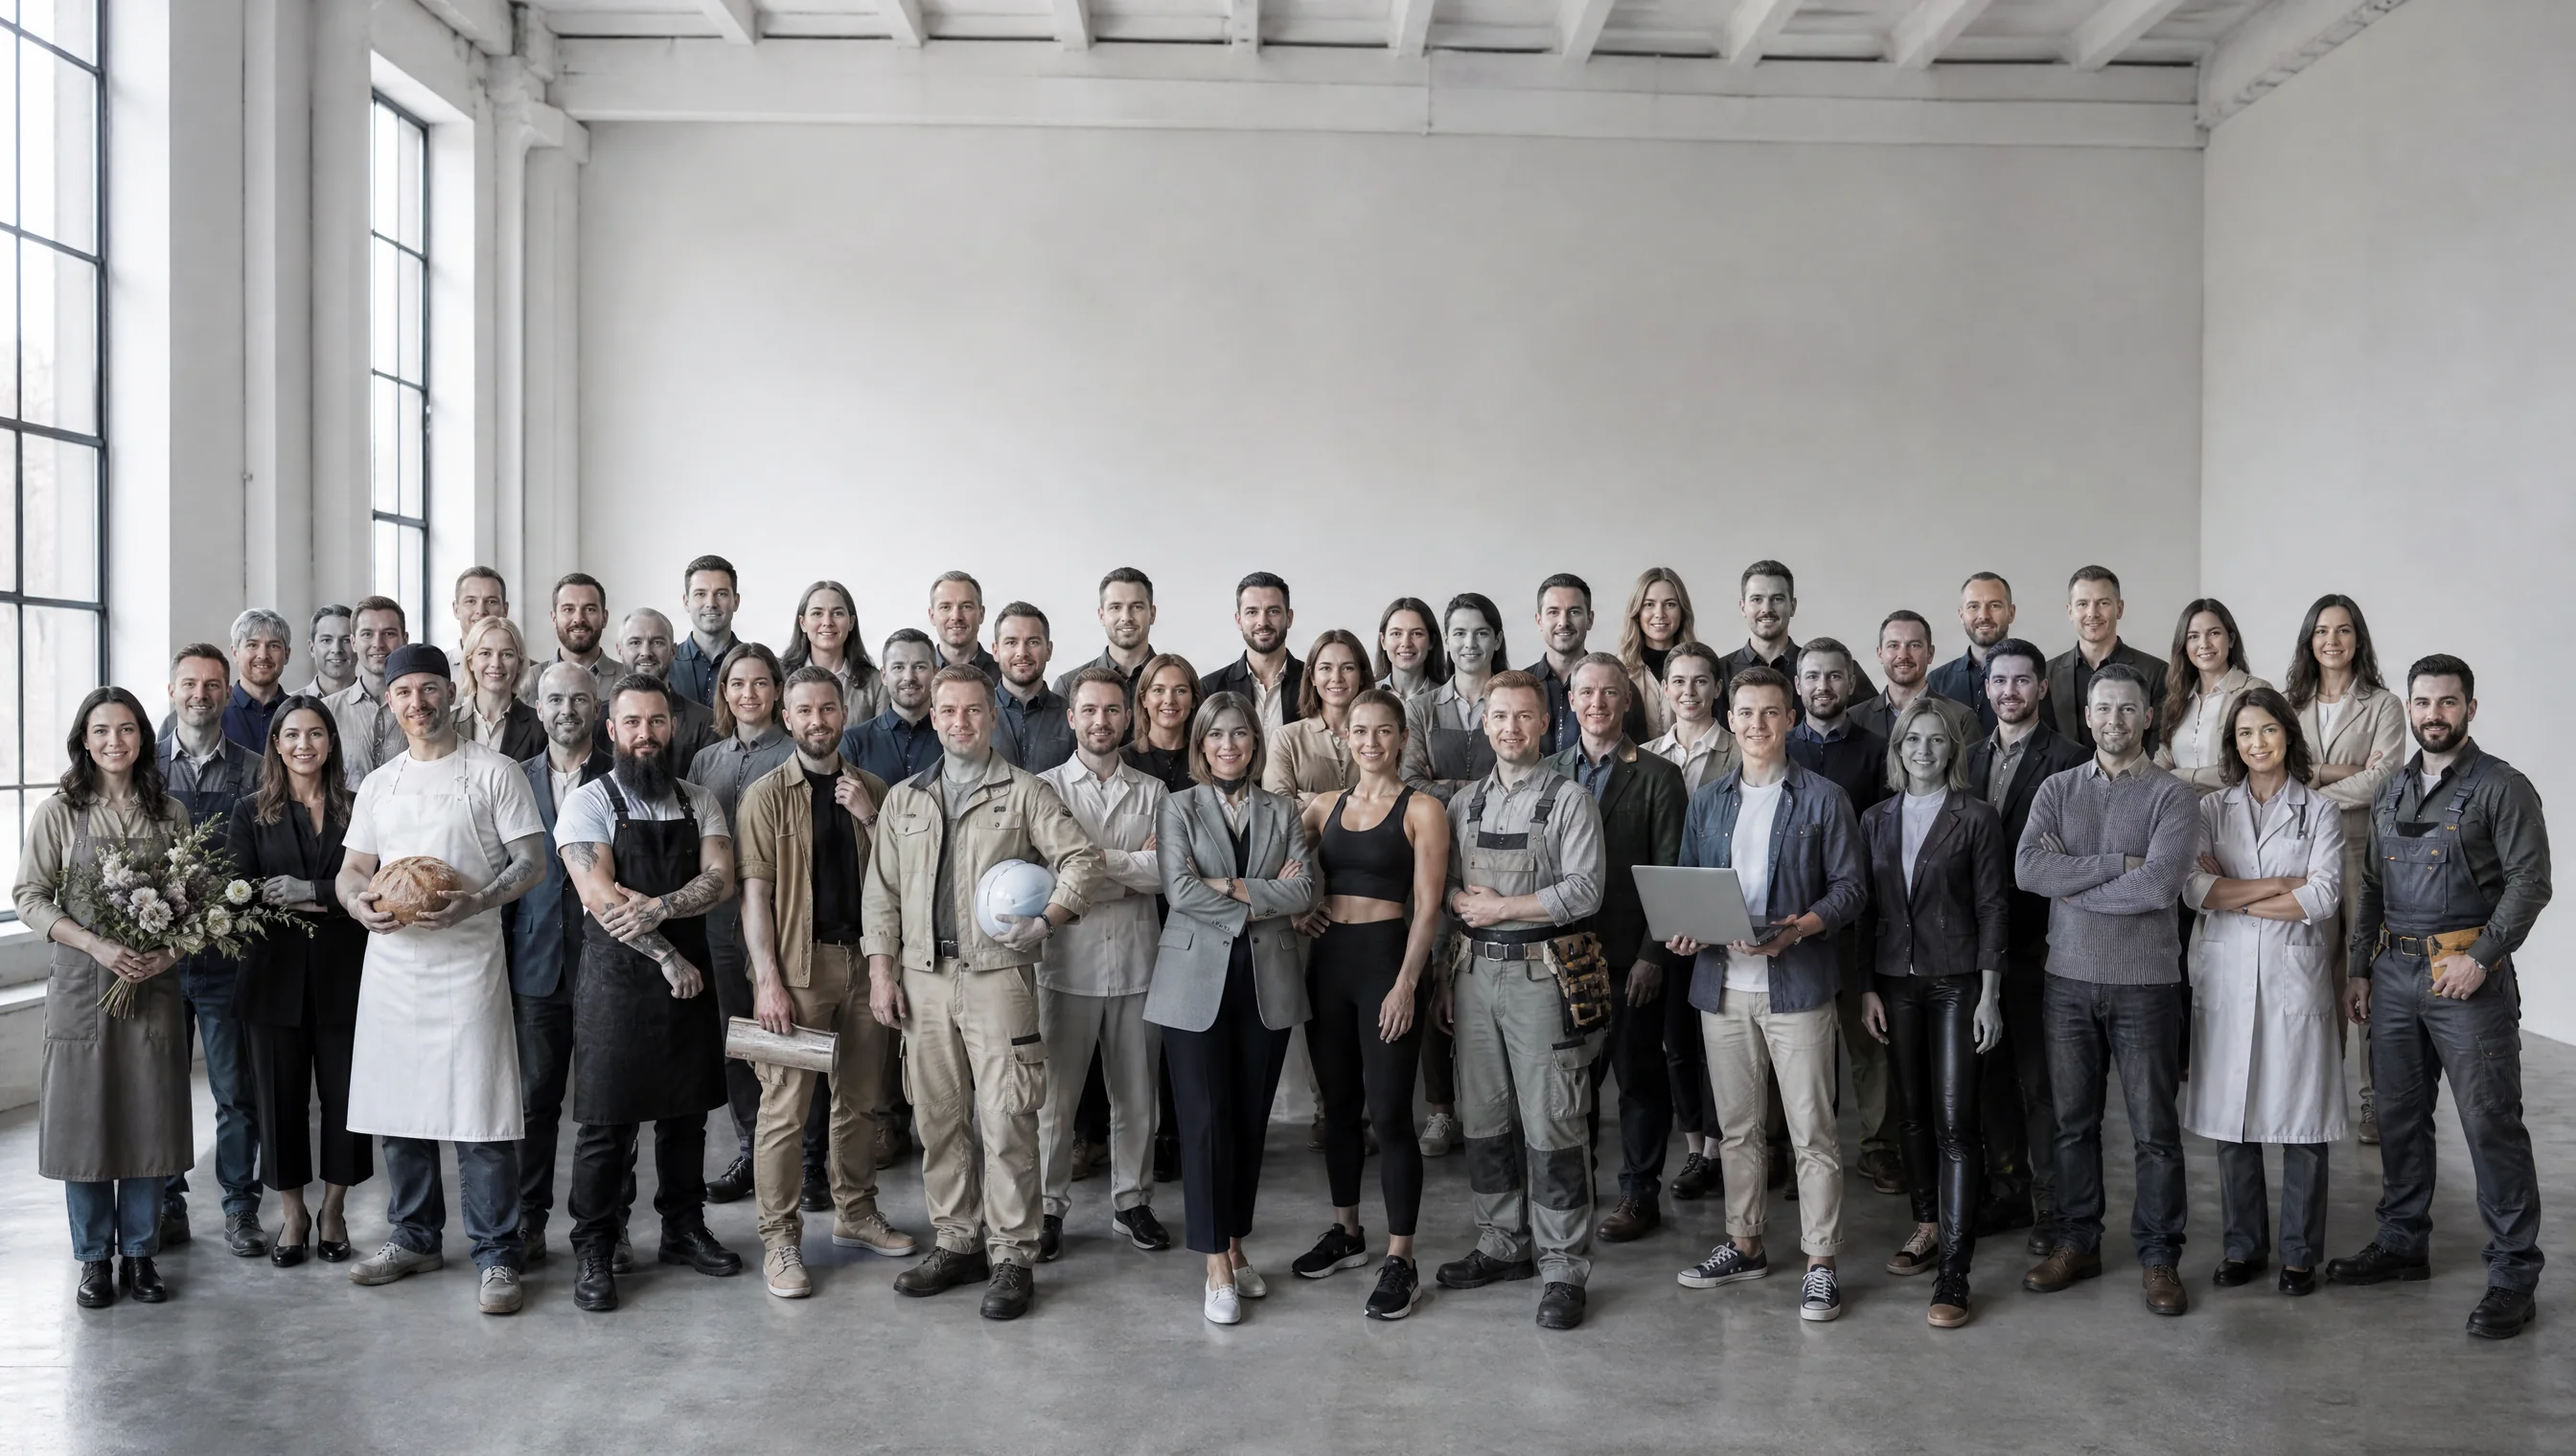
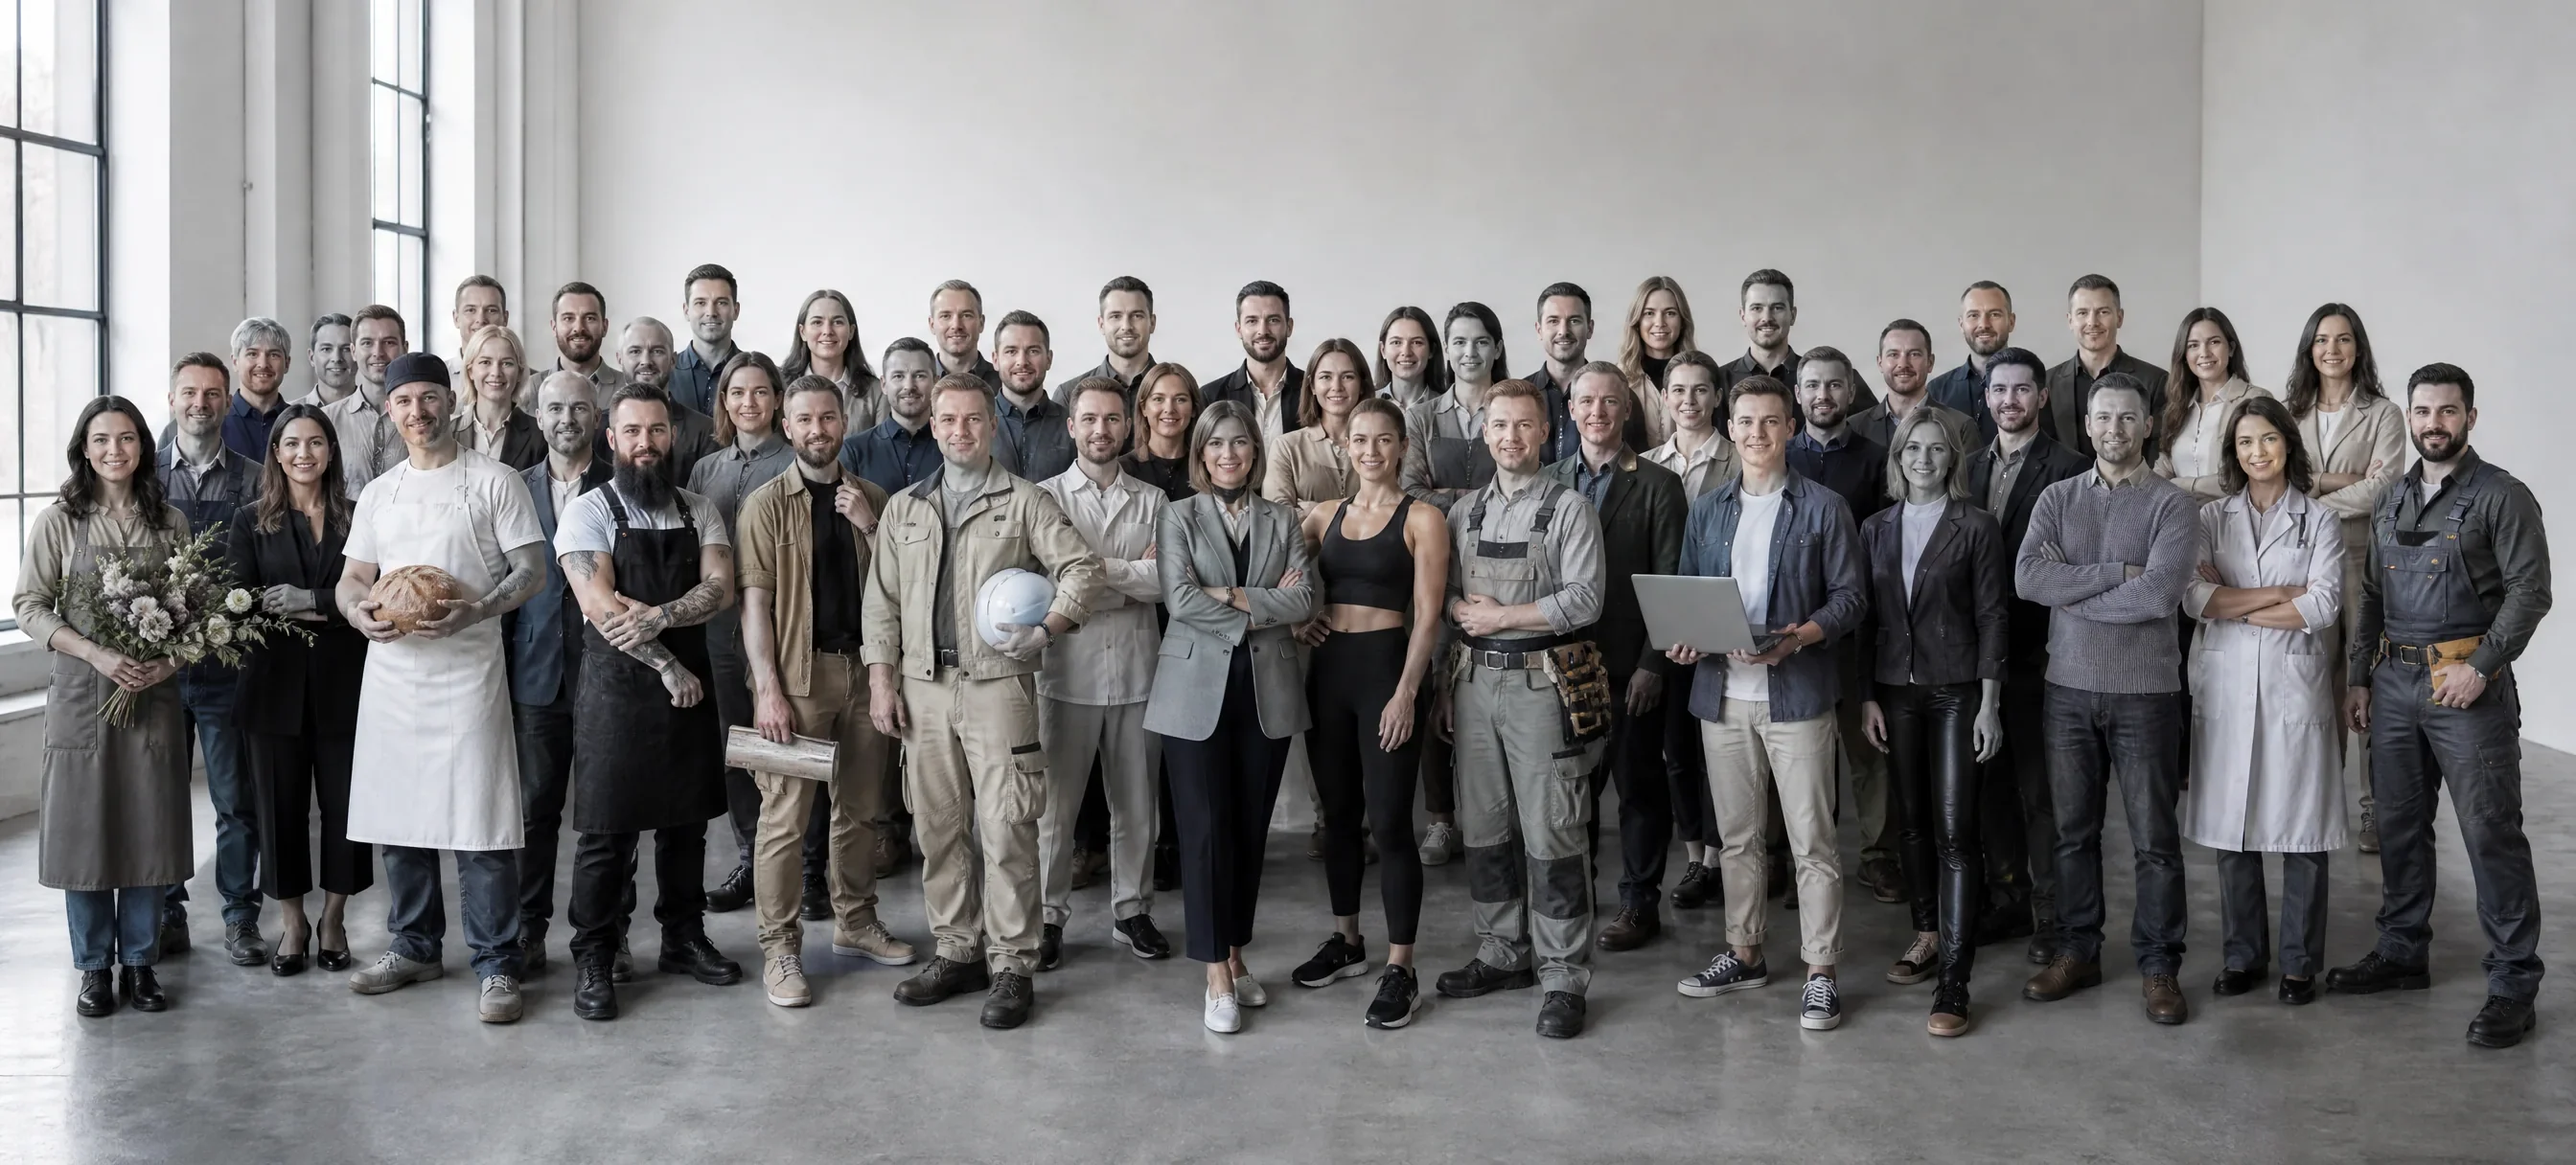
fix(showcase): фон первого экрана держит кадр на любой ширине окна

diff --git a/showcase/crossmark/regru-style/hero-varianty.html b/showcase/crossmark/regru-style/hero-varianty.html
@@ -202,7 +202,7 @@ h1{margin:20px 0 0;font-weight:500;font-size:clamp(34px,4.4vw,62px);line-height:
   </div>
 </div></div>
 <section class="hero" style="min-height:880px">
-  <div class="photo" style="background-image:url('assets/hero-community-ru.webp');background-size:132% auto;background-position:50% 100%"></div>
+  <div class="photo" style="background-image:url('assets/hero-community-ru.webp');background-size:cover;background-position:50% 24%"></div>
   <div class="hero__in">
     <div class="bar">
       <div class="pod"><span class="brand"><i>✦</i>Кроссмарк</span><a class="nav-item">Проблема</a><a class="nav-item">Как работает</a><a class="nav-item">Тарифы</a></div>

diff --git a/showcase/crossmark/regru-style/index.html b/showcase/crossmark/regru-style/index.html
@@ -80,7 +80,7 @@ section{scroll-margin-top:24px}
 .hero__photo{
   position:absolute;top:0;left:0;right:0;height:1150px;
   background-image:url("assets/hero-community-ru2.webp");
-  background-size:172% auto;background-position:50% 100%;
+  background-size:cover;background-position:50% 24%;
   background-color:#dcdfe4;
 }
 .hero__photo::after{
